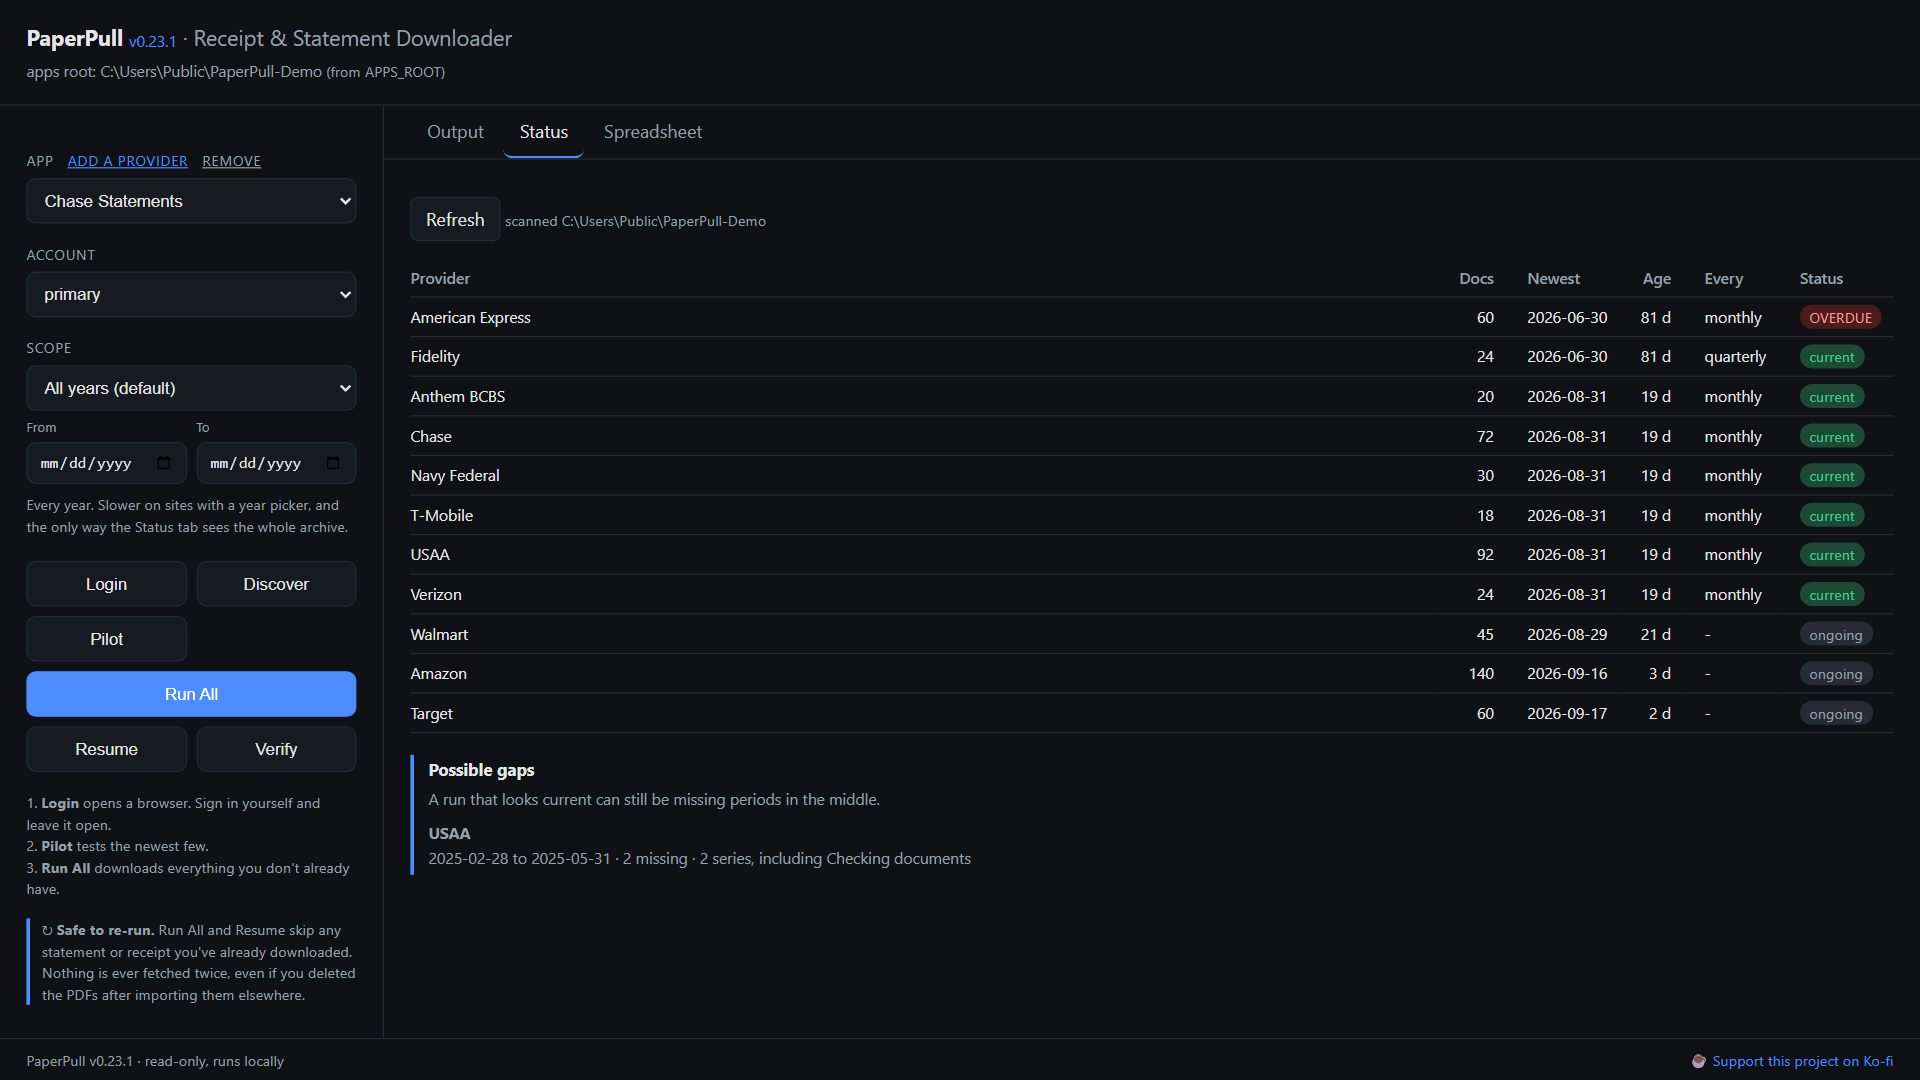
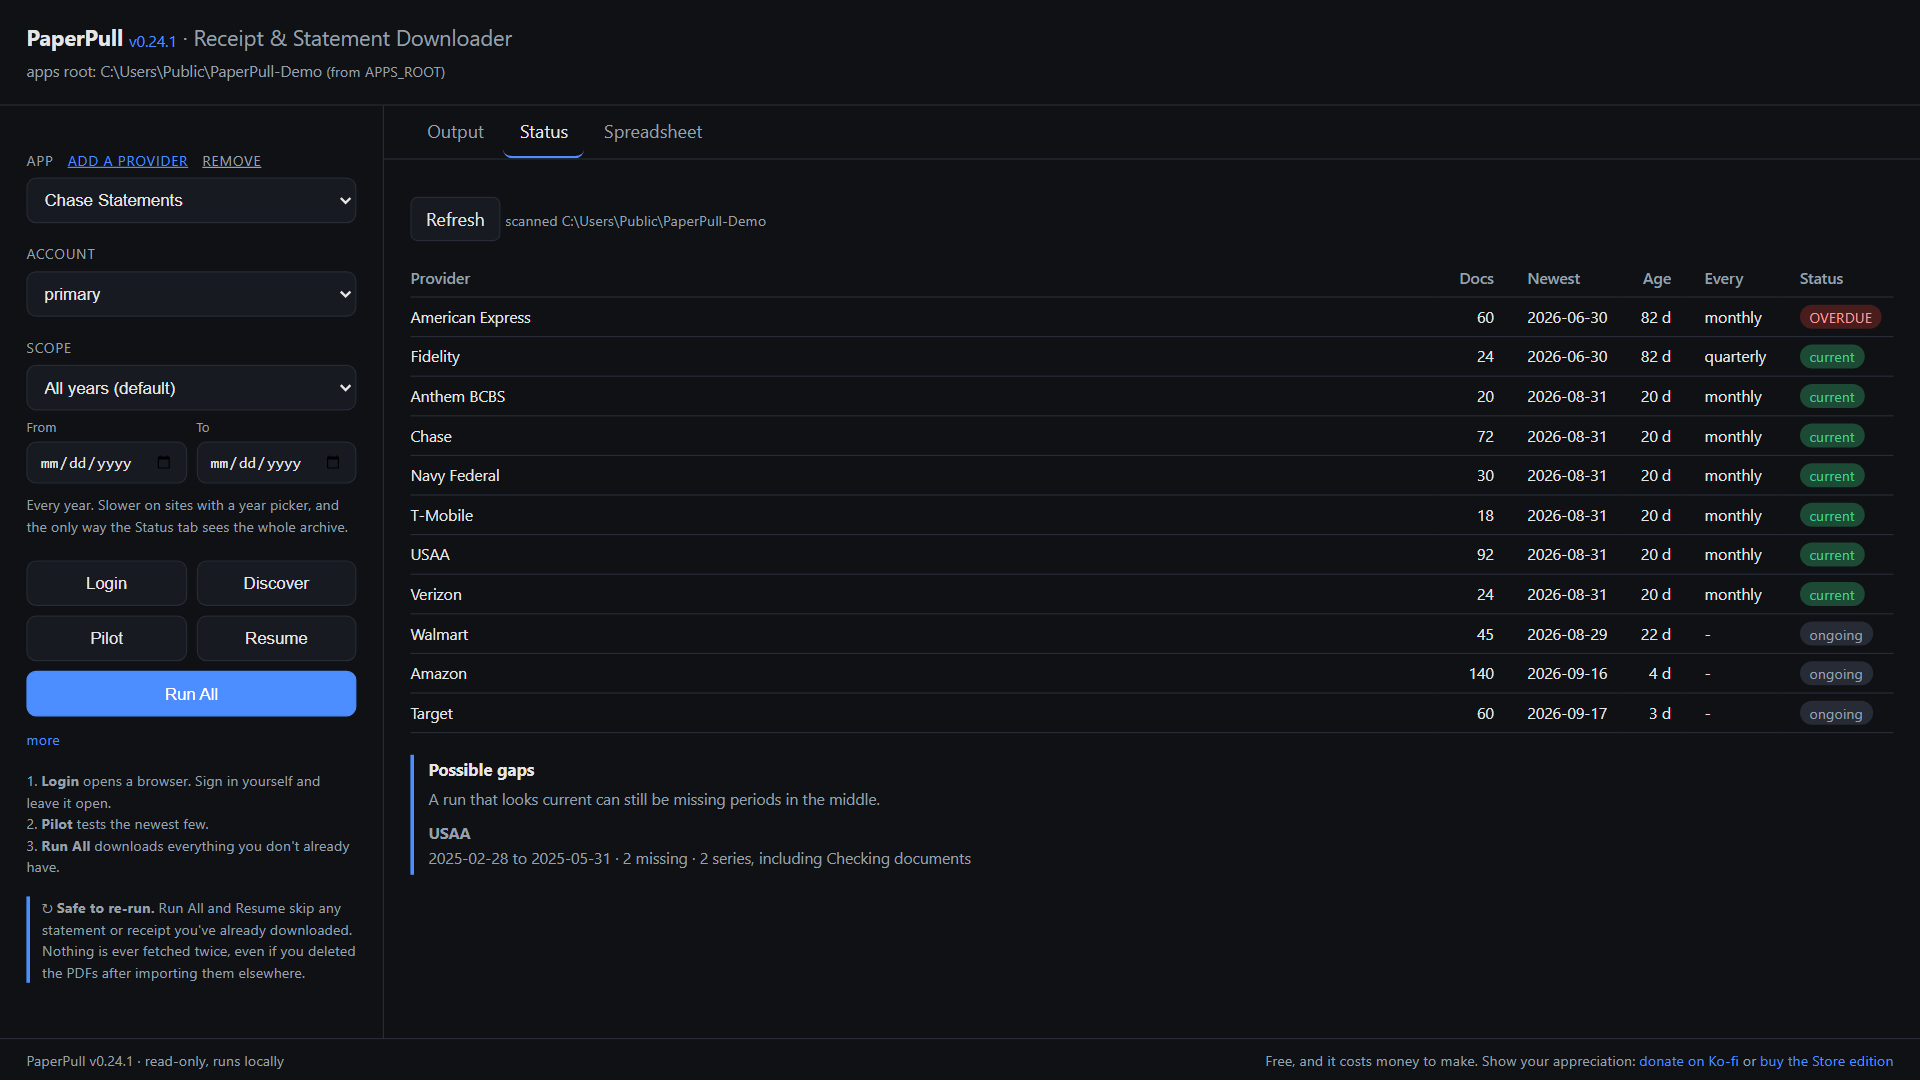
Verify and Diagnose behind a more link, Resume beside Pilot
The main panel is the buttons a normal day needs. The two for when
something is off sit behind one link, remembered per browser, with a hint
beside them. Store screenshots retaken to match.

diff --git a/gui/app.py b/gui/app.py
@@ -166,14 +166,18 @@ ACTIONS = {
     "login":    {"label": "Login",    "flags": ["__LOGIN__"]},
     "discover": {"label": "Discover", "flags": ["--discover"]},
     "pilot":    {"label": "Pilot",    "flags": ["--pilot"]},
-    "all":      {"label": "Run All",  "flags": ["--all", "--yes"]},
     "resume":   {"label": "Resume",   "flags": ["--resume", "--yes"]},
+    "all":      {"label": "Run All",  "flags": ["--all", "--yes"]},
     "verify":   {"label": "Verify",   "flags": ["--verify"]},
     # Reads the provider's page and writes a survey to Diagnostics. Downloads
     # nothing. It is how a provider built without an account gets tested by
     # someone who has one, and how a broken one gets repaired.
     "diagnose": {"label": "Diagnose", "flags": ["--diagnose"]},
 }
+# The actions for when something is off, kept behind a "more" link so the
+# main panel stays the four a normal day needs. Verify re-checks saved PDFs,
+# Diagnose surveys the page. Both are harmless and both are rarely wanted.
+MORE_ACTIONS = ("verify", "diagnose")
 ENTRY_RE = re.compile(r".*_(receipts|docs)\.py$")
 
 # Every app takes the same three scope flags. The panel passes them through
@@ -299,7 +303,7 @@ def discover_apps():
 def api_apps():
     apps = discover_apps()
     return {"apps_root": str(apps_root()), "root_source": root_source(), "actions": {k: v["label"] for k, v in ACTIONS.items()},
-            "apps": apps}
+            "more_actions": list(MORE_ACTIONS), "apps": apps}
 
 
 # -- how current each archive is ---------------------------------------------
@@ -1061,6 +1065,10 @@ HTML = r"""<!doctype html>
   .scope input[type=date]:disabled { opacity:.45; }
   .scope .sub { font-size:11px; color:var(--muted); text-transform:none; letter-spacing:0; margin:6px 0 4px; }
   .actions { display:grid; grid-template-columns:1fr 1fr; gap:8px; margin-top:20px; }
+  .actions.more { margin-top:8px; }
+  .morelink { font-size:12px; color:var(--muted); margin-top:10px; }
+  .morelink a { color:var(--accent); text-decoration:none; }
+  .morehint { font-size:12px; color:var(--muted); margin:6px 0 0; }
   button { padding:10px; border:1px solid var(--line); border-radius:8px; cursor:pointer;
            background:var(--panel); color:var(--fg); font-size:14px; }
   button:hover { border-color:var(--accent); }
@@ -1128,11 +1136,16 @@ HTML = r"""<!doctype html>
     </div>
     <p class="hint" id="scopehint" style="margin-top:8px"></p>
     <div class="actions" id="actions"></div>
+    <p class="morelink"><a href="#" id="morelink" onclick="toggleMore(); return false;">more</a></p>
+    <div id="morebox" style="display:none">
+      <div class="actions more" id="moreactions"></div>
+      <p class="morehint"><b>Verify</b> re-checks every saved PDF. <b>Diagnose</b> reads the
+         provider's page and writes a survey to its Diagnostics folder, downloading nothing.
+         Attach that file to an issue when a provider needs a repair or a first test.</p>
+    </div>
     <p class="hint">1. <b>Login</b> opens a browser. Sign in yourself and leave it open.<br>
        2. <b>Pilot</b> tests the newest few.<br>
-       3. <b>Run All</b> downloads everything you don't already have.<br>
-       <b>Diagnose</b> reads the page and writes a survey to Diagnostics, downloading
-       nothing. Attach it to an issue when a provider needs a repair or a first test.</p>
+       3. <b>Run All</b> downloads everything you don't already have.</p>
     <p class="hint" style="border-left:3px solid var(--accent); padding-left:10px;">
        ↻ <b>Safe to re-run.</b> Run All and Resume skip any statement or receipt
        you've already downloaded. Nothing is ever fetched twice, even if you
@@ -1470,14 +1483,27 @@ async function load() {
   appSel.onchange = onApp;
   fillScope();
   const acts = $('actions'); acts.innerHTML = '';
+  const more = $('moreactions'); more.innerHTML = '';
+  const tucked = new Set(META.more_actions || []);
   for (const [k, label] of Object.entries(META.actions)) {
     const b = document.createElement('button');
     b.textContent = label; b.className = (k === 'all') ? 'primary' : '';
     b.onclick = () => run(k);
-    acts.append(b);
+    (tucked.has(k) ? more : acts).append(b);
   }
+  let open = false;
+  try { open = localStorage.getItem('moreactions') === '1'; } catch (e) {}
+  showMore(open);
   onApp();
 }
+// The rarely wanted actions sit behind one link. Open or closed is
+// remembered in this browser only, like the scope.
+function showMore(on) {
+  $('morebox').style.display = on ? 'block' : 'none';
+  $('morelink').textContent = on ? 'fewer' : 'more';
+  try { localStorage.setItem('moreactions', on ? '1' : '0'); } catch (e) {}
+}
+function toggleMore() { showMore($('morebox').style.display === 'none'); }
 function onApp() {
   const m = META.apps[$('app').value];
   const accSel = $('account'); accSel.innerHTML = '';

diff --git a/CHANGELOG.md b/CHANGELOG.md
@@ -10,11 +10,15 @@ All notable changes to PaperPull are recorded here. Versioning follows
 ## [Unreleased]
 
 ### Added
-- **A Diagnose button on the panel.** The AT&T tester instructions said
-  to click Diagnose, and the panel had no such button, only the command
-  line did. It runs the app's survey, which downloads nothing and writes
-  to the Diagnostics folder, and is how a provider built without an
-  account gets tested by someone who has one.
+- **A Diagnose button on the panel, behind "more".** The AT&T tester
+  instructions said to click Diagnose, and the panel had no such button,
+  only the command line did. It runs the app's survey, which downloads
+  nothing and writes to the Diagnostics folder, and is how a provider
+  built without an account gets tested by someone who has one. It sits
+  with Verify behind a "more" link under the main buttons, since both are
+  for when something is off rather than for a normal day, and the panel
+  remembers whether you left it open. Resume moved up beside Pilot so Run
+  All stands alone at the bottom.
 
 ## [0.24.1] - 2026-09-20
 

diff --git a/apps/att/README.md b/apps/att/README.md
@@ -20,7 +20,7 @@ delete-safe, part of [PaperPull](../../README.md).
 3. Click **Login**. Your own Edge or Chrome opens with a separate profile.
    Sign in to att.com yourself, answer any code it sends, and leave the
    window open.
-4. Click **Diagnose**. It reads the billing page and writes
+4. Click **more** under the buttons, then **Diagnose**. It reads the billing page and writes
    `Diagnostics\diagnose-billing.json` in the AT&T folder. It downloads
    nothing, clicks nothing but a billing link, takes no screenshot, and
    masks any run of six or more digits.
